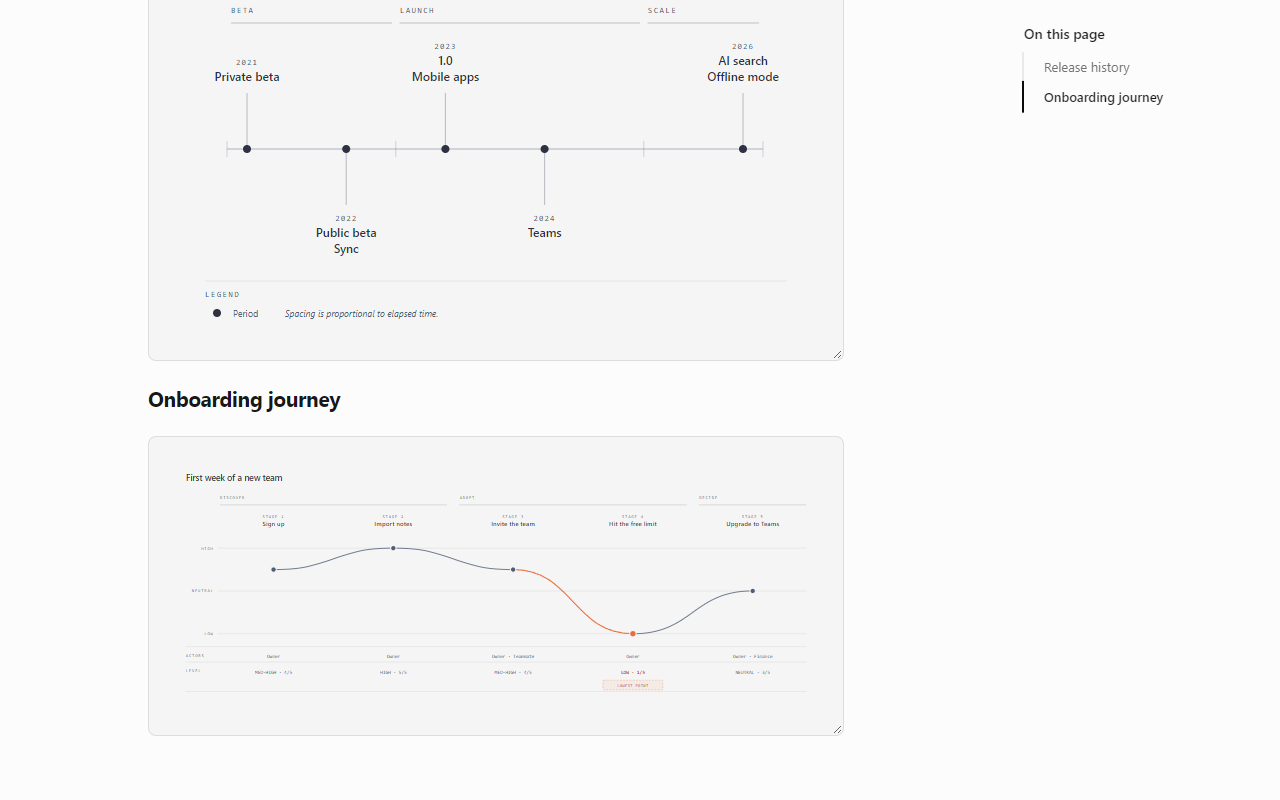
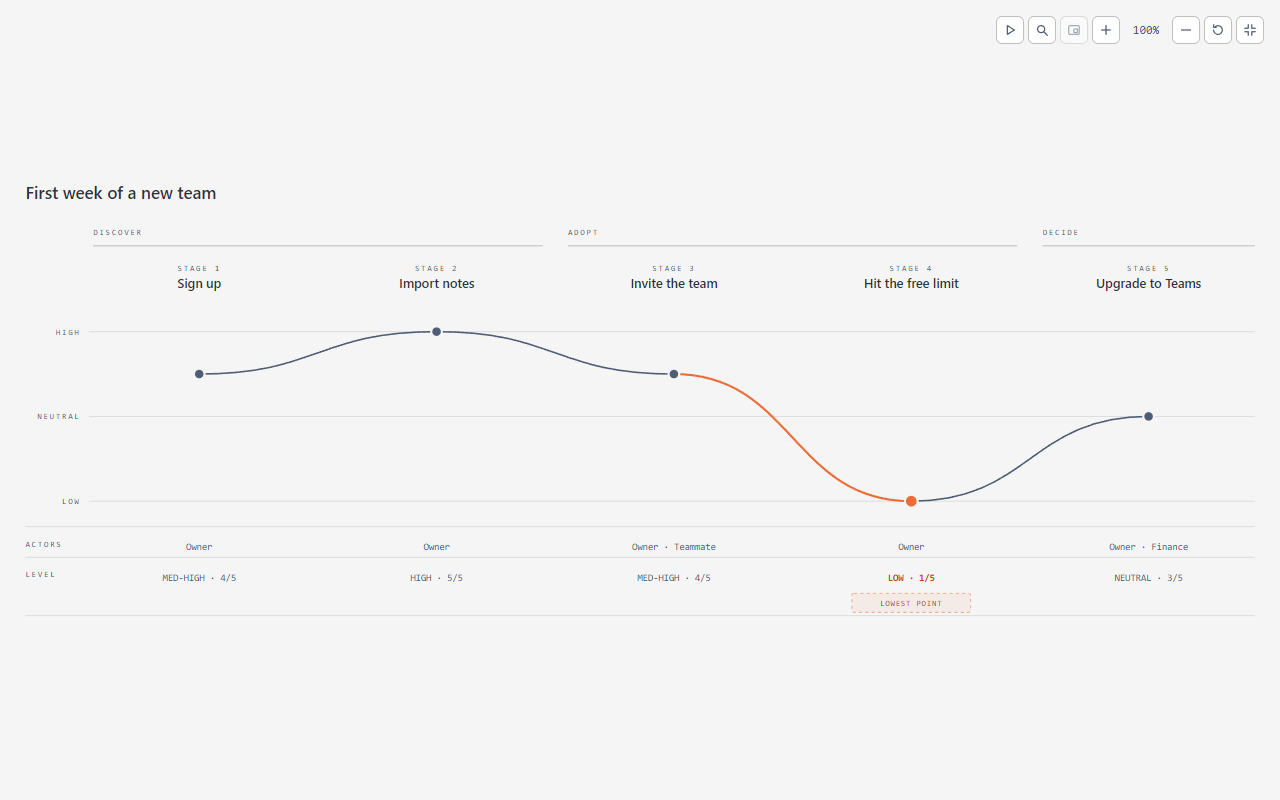
chore(store): render store assets from an editorial HTML template into docs/store
Replace the System.Drawing script with docs/store/assets.html captured by
scripts/store-assets.mjs (bun run build:store), styled after diagram-design.
Write the listing as the dashboard's Product details, Graphic assets and
Additional fields, and capture the journey screenshot in fullscreen.

diff --git a/docs/store/assets.html b/docs/store/assets.html
@@ -1,0 +1,124 @@
+<!doctype html>
+<!-- Chrome Web Store graphic assets. Each [data-out] block is captured at its exact size by scripts/store-assets.mjs.
+     Palette and type follow the diagram-design editorial skin: paper, ink, one accent. -->
+<html lang="en">
+<head>
+<meta charset="utf-8">
+<link href="https://fonts.googleapis.com/css2?family=Instrument+Serif:ital@0;1&family=Geist:wght@400;500;600&family=Geist+Mono:wght@400;500&display=swap" rel="stylesheet">
+<style>
+:root {
+  --paper: #f5f5f5;
+  --paper-2: #ececec;
+  --ink: #2d3142;
+  --muted: #4f5d75;
+  --rule: rgba(45, 49, 66, .14);
+  --accent: #bf4520;
+  --serif: "Instrument Serif", Georgia, serif;
+  --sans: "Geist", "Segoe UI", system-ui, sans-serif;
+  --mono: "Geist Mono", ui-monospace, Consolas, monospace;
+}
+* { box-sizing: border-box; margin: 0; }
+body { background: #888; padding: 40px; display: grid; gap: 40px; justify-content: start; }
+.canvas {
+  position: relative; overflow: hidden; color: var(--ink); font-family: var(--sans);
+  background: var(--paper) radial-gradient(circle, rgba(45, 49, 66, .13) 1px, transparent 1.2px) 0 0 / 22px 22px;
+}
+.eyebrow { font: 500 15px/1 var(--mono); letter-spacing: .18em; text-transform: uppercase; color: var(--accent); }
+.eyebrow b { color: var(--muted); font-weight: 500; }
+h1 { font: 400 66px/1.02 var(--serif); letter-spacing: -.01em; }
+h1 em { font-style: italic; color: var(--accent); }
+.sub { font: 400 22px/1.4 var(--sans); color: var(--muted); }
+.frame { position: absolute; background: #fff; border: 1px solid var(--rule); border-radius: 14px; overflow: hidden; }
+.frame .bar { height: 34px; background: var(--paper-2); border-bottom: 1px solid var(--rule); display: flex; align-items: center; gap: 7px; padding: 0 14px; }
+.frame .bar i { width: 10px; height: 10px; border-radius: 50%; background: rgba(45, 49, 66, .2); }
+.frame .bar span { margin-left: 14px; font: 400 12px var(--mono); color: var(--muted); }
+.frame img { display: block; width: 100%; }
+.brand { display: flex; align-items: center; gap: 12px; font: 600 17px var(--sans); }
+.brand img { width: 34px; height: 34px; border-radius: 8px; }
+
+/* 1280 x 800 screenshot */
+.shot { width: 1280px; height: 800px; }
+.shot .copy { position: absolute; left: 80px; top: 64px; right: 80px; display: grid; gap: 16px; }
+.shot .copy .row { display: flex; justify-content: space-between; align-items: center; }
+.shot .frame { left: 120px; top: 262px; width: 1040px; }
+
+/* 440 x 280 small promo */
+.small { width: 440px; height: 280px; padding: 34px 36px; display: flex; flex-direction: column; justify-content: space-between; }
+.small img { width: 58px; height: 58px; border-radius: 13px; }
+.small h1 { font-size: 46px; margin-top: 4px; }
+.small .eyebrow { font-size: 11.5px; }
+
+/* 1400 x 560 marquee */
+.marquee { width: 1400px; height: 560px; }
+.marquee .copy { position: absolute; left: 80px; top: 70px; width: 560px; display: grid; gap: 22px; }
+.marquee h1 { font-size: 78px; }
+.marquee .frame { left: 700px; top: 64px; width: 800px; }
+</style>
+</head>
+<body>
+
+<div class="canvas shot" data-out="screenshot-01-flowchart.png">
+  <div class="copy">
+    <div class="row"><p class="eyebrow">01 <b>/</b> Fullscreen viewer</p><div class="brand"><img src="store-icon-128.png" alt="">Nimbus Markdown</div></div>
+    <h1>Mermaid diagrams you can <em>explore</em>.</h1>
+    <p class="sub">Zoom, find a node, and see what flows in and out of it.</p>
+  </div>
+  <div class="frame"><div class="bar"><i></i><i></i><i></i><span>checkout.md</span></div><img src="../screenshots/01-flowchart-fullscreen.png" alt=""></div>
+</div>
+
+<div class="canvas shot" data-out="screenshot-02-sequence.png">
+  <div class="copy">
+    <div class="row"><p class="eyebrow">02 <b>/</b> Light or dark</p><div class="brand"><img src="store-icon-128.png" alt="">Nimbus Markdown</div></div>
+    <h1>Sequence diagrams, <em>day or night</em>.</h1>
+    <p class="sub">Every diagram follows the theme you read in.</p>
+  </div>
+  <div class="frame"><div class="bar"><i></i><i></i><i></i><span>checkout.md</span></div><img src="../screenshots/02-sequence-dark.png" alt=""></div>
+</div>
+
+<div class="canvas shot" data-out="screenshot-03-journey.png">
+  <div class="copy">
+    <div class="row"><p class="eyebrow">03 <b>/</b> Playback</p><div class="brand"><img src="store-icon-128.png" alt="">Nimbus Markdown</div></div>
+    <h1>Journeys and timelines that <em>play</em>.</h1>
+    <p class="sub">Step through a user journey or a release history, one stage at a time.</p>
+  </div>
+  <div class="frame"><div class="bar"><i></i><i></i><i></i><span>roadmap.md</span></div><img src="../screenshots/03-journey.png" alt=""></div>
+</div>
+
+<div class="canvas shot" data-out="screenshot-04-dbml.png">
+  <div class="copy">
+    <div class="row"><p class="eyebrow">04 <b>/</b> DBML</p><div class="brand"><img src="store-icon-128.png" alt="">Nimbus Markdown</div></div>
+    <h1>Database schemas, <em>drawn for you</em>.</h1>
+    <p class="sub">Tables, keys and relations straight from a dbml code block.</p>
+  </div>
+  <div class="frame"><div class="bar"><i></i><i></i><i></i><span>schema.md</span></div><img src="../screenshots/04-dbml-dark.png" alt=""></div>
+</div>
+
+<div class="canvas shot" data-out="screenshot-05-document.png">
+  <div class="copy">
+    <div class="row"><p class="eyebrow">05 <b>/</b> Documents</p><div class="brand"><img src="store-icon-128.png" alt="">Nimbus Markdown</div></div>
+    <h1>Markdown, <em>beautifully</em> rendered.</h1>
+    <p class="sub">Tables, code, math and a table of contents for every document.</p>
+  </div>
+  <div class="frame"><div class="bar"><i></i><i></i><i></i><span>checkout.md</span></div><img src="../screenshots/05-table-code.png" alt=""></div>
+</div>
+
+<div class="canvas small" data-out="small-promo-440x280.png">
+  <img src="store-icon-128.png" alt="">
+  <div>
+    <h1>Nimbus <em>Markdown</em></h1>
+    <p class="eyebrow" style="margin-top:12px">Mermaid <b>·</b> DBML <b>·</b> Math <b>·</b> Code</p>
+  </div>
+</div>
+
+<div class="canvas marquee" data-out="marquee-promo-1400x560.png">
+  <div class="copy">
+    <div class="brand"><img src="store-icon-128.png" alt="">Nimbus Markdown</div>
+    <h1>Markdown, <em>beautifully</em> rendered.</h1>
+    <p class="sub">Mermaid diagrams you can explore in fullscreen: zoom, search, follow and play.</p>
+    <p class="eyebrow">Flowchart <b>·</b> Sequence <b>·</b> Journey <b>·</b> DBML</p>
+  </div>
+  <div class="frame"><div class="bar"><i></i><i></i><i></i><span>checkout.md</span></div><img src="../screenshots/01-flowchart-fullscreen.png" alt=""></div>
+</div>
+
+</body>
+</html>

diff --git a/CHROME_WEB_STORE.md b/CHROME_WEB_STORE.md
@@ -100,89 +100,108 @@ URL นี้เป็นปลายทางที่คาดไว้ ยั
 No login required. In chrome://extensions, open Nimbus Markdown > Details and enable "Allow access to file URLs". Open a local .md file to view rendered Markdown. Use the popup or Advanced Options to change themes and enable Mermaid, MathJax, syntax highlighting, and ToC. Edit and save the file to test autoreload. For remote Markdown, add its origin in Advanced Options, grant site access, then open the raw Markdown URL.
 ```
 
-## Graphic assets — ไฟล์พร้อมอัปโหลด
+## ลำดับกรอก Store listing ตามฟอร์มจริง
 
-ไฟล์อยู่ในโฟลเดอร์ `store-assets/` เป็น PNG 24-bit RGB ไม่มี alpha ทั้งหมด ใช้โลโก้และภาพ UI ที่มีอยู่จริงในโปรเจกต์
+แท็บ Store listing ใน Developer Dashboard แบ่งเป็น 3 ส่วน: Product details, Graphic assets และ Additional fields
 
-| ช่อง | ไฟล์ | ขนาด |
-| --- | --- | --- |
-| Store icon | `store-assets/store-icon-128.png` | 128×128 |
-| Global promo video | เว้นว่าง หากยังไม่มีวิดีโอ YouTube | — |
-| Screenshots ลำดับ 1 | `store-assets/screenshot-01-flowchart.png` | 1280×800 |
-| Screenshots ลำดับ 2 | `store-assets/screenshot-02-sequence.png` | 1280×800 |
-| Screenshots ลำดับ 3 | `store-assets/screenshot-03-journey.png` | 1280×800 |
-| Screenshots ลำดับ 4 | `store-assets/screenshot-04-dbml.png` | 1280×800 |
-| Screenshots ลำดับ 5 | `store-assets/screenshot-05-document.png` | 1280×800 |
-| Small promo tile | `store-assets/small-promo-440x280.png` | 440×280 |
-| Marquee promo tile | `store-assets/marquee-promo-1400x560.png` | 1400×560 |
+### Product details
 
-ภาพหน้าจอเป็นการ render เอกสาร Markdown ตัวอย่างใน `docs/showcase/` (ข้อมูล mock) โดยเน้น Mermaid diagram ภาพต้นทางอยู่ที่ `docs/screenshots/` สร้างซ้ำได้ด้วย `./store-assets.ps1`
+#### Title from package
 
-## Store listing
-
-### Name
-
+```text
 Nimbus Markdown
+```
 
-### Short description
+อ่านจาก `name` ใน manifest แก้ในฟอร์มไม่ได้
 
+#### Summary from package
+
+```text
 Read Markdown in Chrome with Mermaid diagrams you can explore in fullscreen, DBML schemas, math, code highlighting and 30+ themes.
+```
 
-### Detailed description
+อ่านจาก `description` ใน `manifest.chrome.json` (130 ตัวอักษร ไม่เกิน 132) แก้ในฟอร์มไม่ได้ จะเปลี่ยนเมื่ออัปโหลดแพ็กเกจเวอร์ชันถัดไป
 
-Nimbus Markdown turns Markdown files into readable, themed documents directly in your browser, and makes their Mermaid diagrams something you can explore. Preview local files and Markdown URLs on websites you choose to enable.
+#### Description
+
+```text
+Nimbus Markdown turns Markdown files into clean, themed documents right in your browser, and makes their Mermaid diagrams something you can explore instead of just look at.
 
 EXPLORE DIAGRAMS IN FULLSCREEN
 
-• Zoom and move around any Mermaid diagram.
-• Find a node by name and open an overview map.
-• Hover a node to light its links: blue into it, orange out of it. Click it for its connections.
-• Play sequence, state, journey and timeline diagrams step by step.
-• DBML code blocks are drawn as database schemas with keys and relations.
+• Open any Mermaid diagram fullscreen, then zoom and move around it.
+• Find a node by name (/) and open an overview map of the whole diagram (M).
+• Hover a node to light its links: blue into it, orange out of it. Click it to see its connections, upstream and downstream.
+• Play sequence, state, journey and timeline diagrams step by step (P).
+• Journey maps, timelines, gantt, pie, quadrant, git graph, C4, mindmap and requirement diagrams are redrawn in one calm, editorial style.
+• DBML code blocks become database schemas with key chips and routed foreign keys.
 
-FEATURES
+A COMPLETE MARKDOWN READER
 
-• Light and dark themes, with over 30 themes and custom theme support.
-• GitHub Flavored Markdown, including tables, task lists, and strikethrough.
-• Syntax highlighting for fenced code blocks.
+• Over 30 themes, light and dark, plus your own CSS.
+• GitHub Flavored Markdown: tables, task lists, footnotes, strikethrough and emoji.
+• Syntax highlighting for code blocks, and a highlighted raw Markdown view.
 • MathJax formulas.
-• A table of contents for navigating long documents.
-• Automatic reload for local files and local development previews.
-• Raw and rendered Markdown views.
-• Remembered scroll positions.
-• Configurable Markdown detection by file path and content type.
-• Settings synchronization through your browser.
+• A table of contents that follows where you are reading.
+• Automatic reload when you save a local file.
+• Remembered scroll positions and settings that sync through your browser.
+
+BUILT FOR THE DOCS DEVELOPERS READ EVERY DAY
+
+README files, design notes, architecture docs and the Markdown your AI coding agent writes. Open them straight from disk without switching to an editor.
 
 GET STARTED
 
-For local files, open the extension's Details page at chrome://extensions and enable “Allow access to file URLs”. Then open a Markdown file in your browser.
+1. Open chrome://extensions, click Details on Nimbus Markdown and turn on "Allow access to file URLs".
+2. Drag a .md file into the browser.
+3. For Markdown on websites, open Advanced Options and add the sites you want. Nothing runs on a site until you allow it.
 
-For remote files, open Nimbus Markdown's Advanced Options and add the websites you want to enable. Site access can be managed individually.
+PRIVACY
 
-CUSTOMIZE YOUR READING EXPERIENCE
+Rendering happens in your browser. Your documents are not uploaded to a developer server. Read the privacy policy for the full details.
 
-Choose a theme, adjust content width, configure Markdown options, and enable the rendering features you need. You can also upload a custom CSS theme.
+FREE AND OPEN SOURCE
 
-Nimbus Markdown is free and open source. It is a fork of Markdown Viewer by Simeon Velichkov.
+MIT licensed. Nimbus Markdown is a maintained fork of Markdown Viewer by Simeon Velichkov, with diagrams styled after the diagram-design project by Cathryn Lavery.
 
-Source code and documentation:
+Source code, examples and issues:
 https://github.com/dvgamerr-app/nimbus-markdown
+```
 
-### Language
+#### Category
 
-English — สำหรับ listing ภาษาอังกฤษนี้
+**Developer Tools** (อยู่ในกลุ่ม Productivity)
 
-### Category
+#### Language
 
-เลือกหมวดที่เกี่ยวกับ Developer Tools หากมีในฟอร์มจริง
+**English**
 
-### Homepage URL
+### Graphic assets
 
-https://github.com/dvgamerr-app/nimbus-markdown
+ไฟล์ทั้งหมดอยู่ใน `docs/store/` เป็น PNG 24-bit RGB ไม่มี alpha ภาพหน้าจอเป็นการ render เอกสาร mock ใน `docs/showcase/` ผ่าน extension จริง ดีไซน์อยู่ใน `docs/store/assets.html` (โทน editorial ตาม diagram-design) สร้างใหม่ได้ด้วย `bun run build:store`
 
-### Support URL
+| ช่อง | ไฟล์ | ขนาด | ข้อความหลัก |
+| --- | --- | --- | --- |
+| Store icon | `docs/store/store-icon-128.png` | 128×128 | — |
+| Global promo video | เว้นว่าง หากยังไม่มีวิดีโอ YouTube | — | — |
+| Screenshot 1 | `docs/store/screenshot-01-flowchart.png` | 1280×800 | Mermaid diagrams you can explore. |
+| Screenshot 2 | `docs/store/screenshot-02-sequence.png` | 1280×800 | Sequence diagrams, day or night. |
+| Screenshot 3 | `docs/store/screenshot-03-journey.png` | 1280×800 | Journeys and timelines that play. |
+| Screenshot 4 | `docs/store/screenshot-04-dbml.png` | 1280×800 | Database schemas, drawn for you. |
+| Screenshot 5 | `docs/store/screenshot-05-document.png` | 1280×800 | Markdown, beautifully rendered. |
+| Small promo tile | `docs/store/small-promo-440x280.png` | 440×280 | Nimbus Markdown |
+| Marquee promo tile | `docs/store/marquee-promo-1400x560.png` | 1400×560 | Markdown, beautifully rendered. |
 
-https://github.com/dvgamerr-app/nimbus-markdown/issues
+ถ้าจะทำ Global promo video ใช้ GIF ใน `docs/screenshots/fullscreen-*.gif` เป็นต้นทาง แล้วอัปโหลดขึ้น YouTube ก่อนนำ URL มากรอก
+
+### Additional fields
+
+| ช่อง | ค่า |
+| --- | --- |
+| Official URL | **None** จนกว่าจะยืนยันเจ้าของโดเมน `dvgamerr.app` ใน Google Search Console แล้วค่อยเลือก |
+| Homepage URL | `https://dvgamerr.app/nimbus-markdown/` (หลัง Pages deploy แล้ว ระหว่างนี้ใช้ `https://github.com/dvgamerr-app/nimbus-markdown`) |
+| Support URL | `https://github.com/dvgamerr-app/nimbus-markdown/issues` |
+| Mature content | **ไม่เลือก** ไม่มีเนื้อหาสำหรับผู้ใหญ่ |
 
 ## Privacy practices — Single purpose
 
@@ -228,7 +247,7 @@ No account or login is required to test the extension.
 
 - **Privacy policy URL:** มีไฟล์ `PRIVACY.md` แล้ว ต้องเผยแพร่บน GitHub และตรวจว่าเปิดอ่านแบบสาธารณะได้ก่อนกรอก URL
 - **Contact email:** ใช้อีเมลสำหรับติดต่อผู้ดูแลจริง ไม่ใช่อีเมลผู้เขียนต้นฉบับใน LICENSE
-- **Screenshots / promotional images:** เลือกภาพที่ตรงกับหน้าตาและฟีเจอร์ของเวอร์ชันที่อัปโหลด
+- **Screenshots / promotional images:** ภาพใน `docs/store/` ถ่ายจาก build ปัจจุบัน ถ้า UI ของ diagram เปลี่ยนให้ถ่ายใหม่ก่อนส่ง
 - **Data usage declarations:** ตรวจตามพฤติกรรมจริงก่อนเลือกคำตอบ การเรนเดอร์เข้าถึงเนื้อหาเอกสารและ URL; ตำแหน่งการอ่านถูกเก็บใน local storage และการตั้งค่ารวมถึง site rules ใช้ Chrome Sync
 - **External requests:** ตัวแปลง emoji ใช้ภาพจาก cdn.jsdelivr.net และเอกสารที่เรนเดอร์อาจอ้างอิงทรัพยากรภายนอก จึงไม่ควรระบุว่าการทำงานทั้งหมดเป็น offline หรือไม่มีการเชื่อมต่อภายนอก
 - **Remote code declaration:** การโหลดภาพจาก CDN ไม่ใช่หลักฐานว่ามี remote executable code ต้องตรวจ renderer, vendor scripts และแพ็กเกจที่จะส่งก่อนตอบช่องนี้
@@ -236,7 +255,7 @@ No account or login is required to test the extension.
 
 ## Source references
 
-- `README.md` — ฟีเจอร์และขั้นตอนใช้งาน
+- `README.md`, `docs/reference.md` — ฟีเจอร์และขั้นตอนใช้งาน
 - `manifest.json`, `manifest.chrome.json` — ชื่อ เวอร์ชัน และสิทธิ์
 - `background/storage.js` — การเก็บและซิงก์การตั้งค่า
 - `background/detect.js`, `background/inject.js` — ตรวจจับและเรนเดอร์เอกสาร
